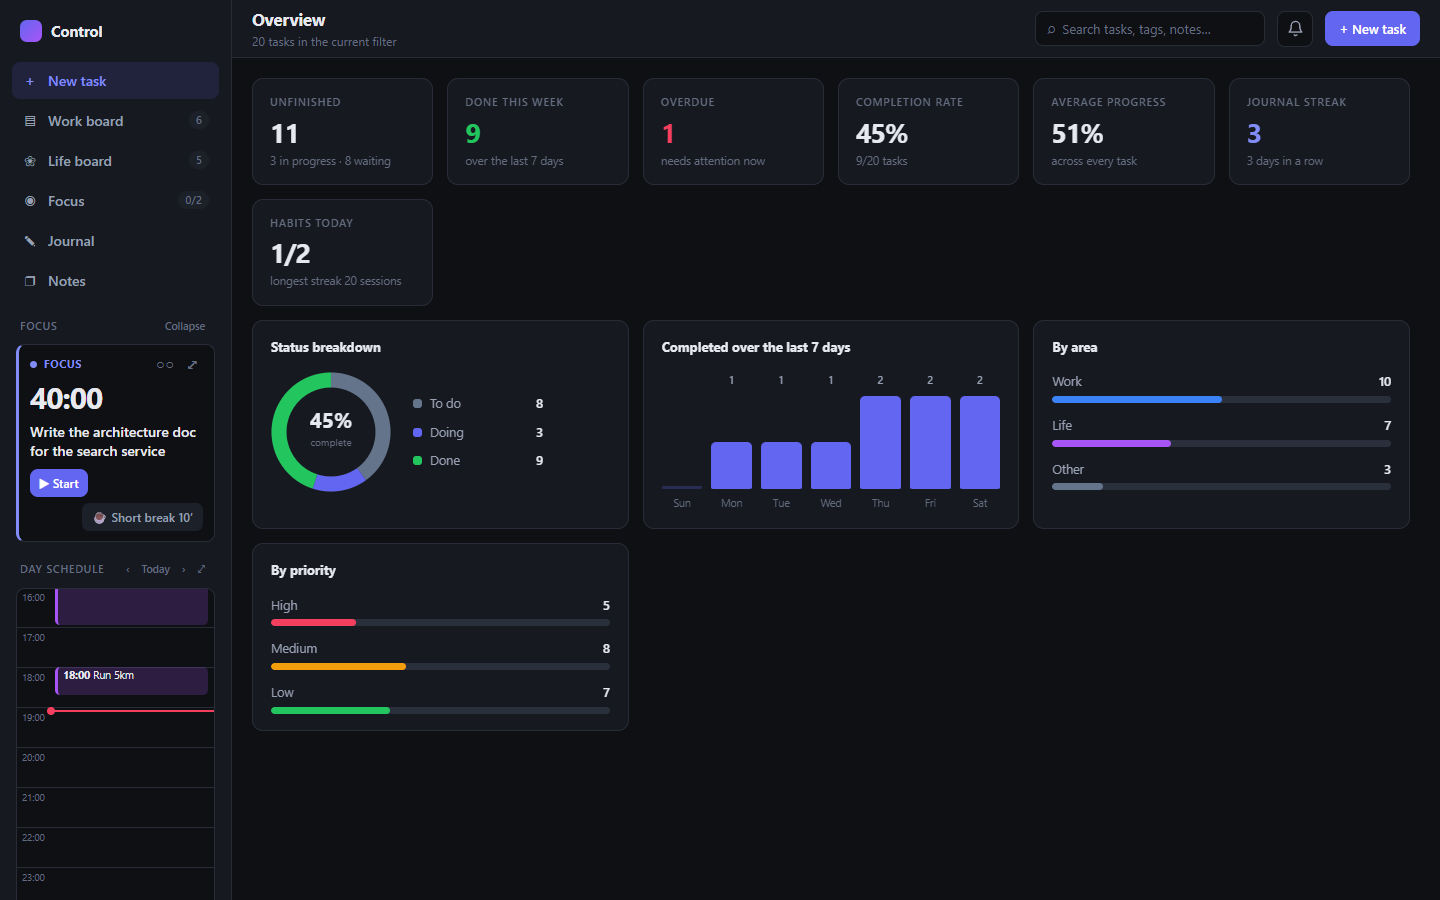
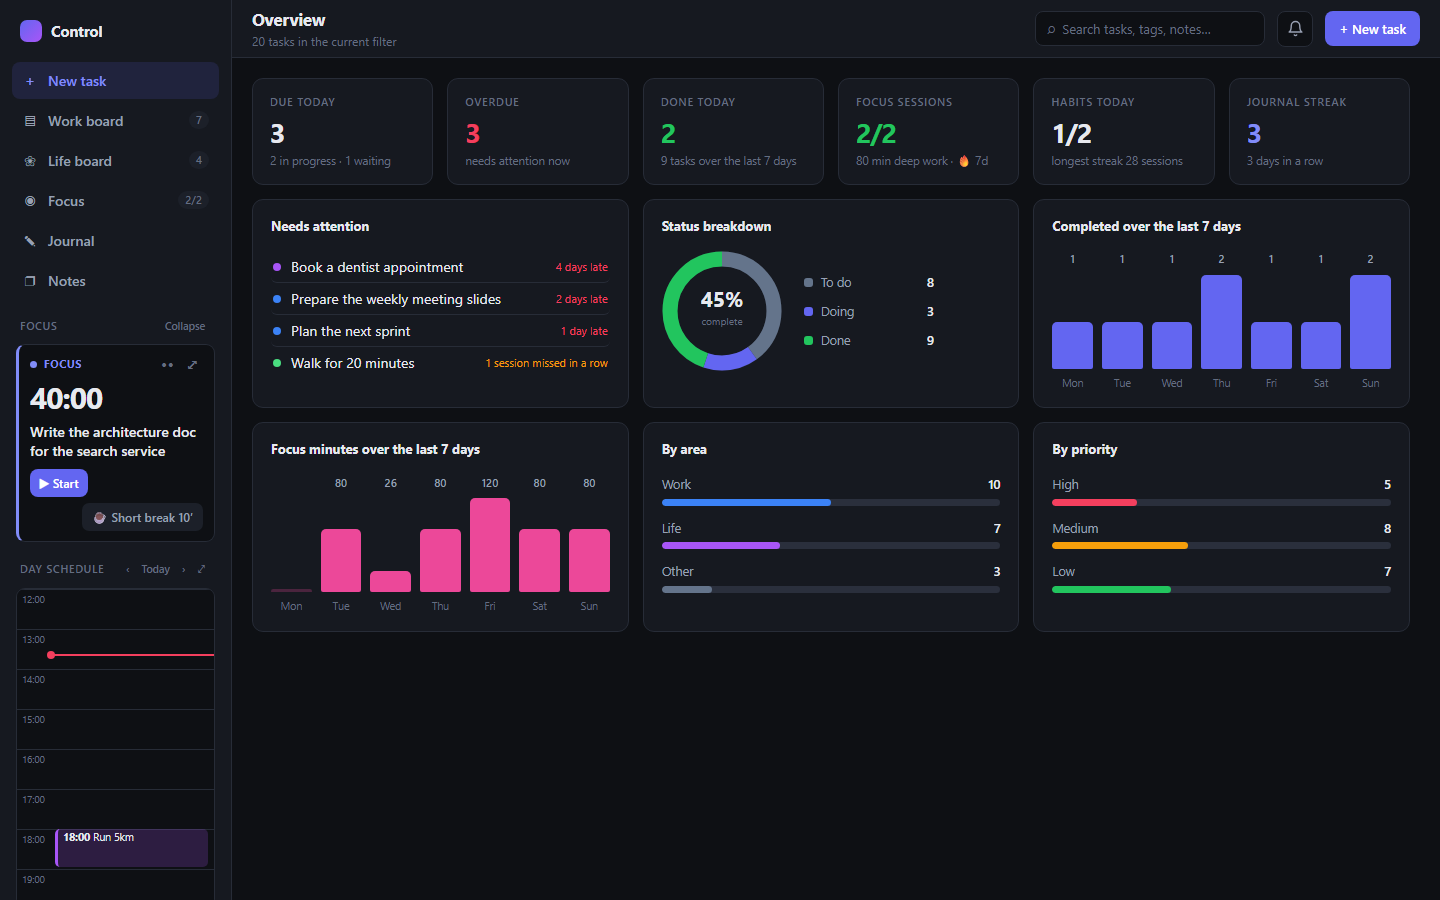
Sắp xếp lại trang tổng quan quanh chỉ số của hôm nay
- Hàng trên còn sáu ô, toàn chỉ số trong ngày: đến hạn hôm nay, trễ hạn,
  xong hôm nay, phiên tập trung, thói quen, chuỗi nhật ký
- Thêm mục "Cần chú ý": việc trễ hạn và thói quen đang ở buổi quyết định
- Thêm biểu đồ phút tập trung 7 ngày qua
- Bấm vào ô chỉ số để sang thẳng trang tương ứng
- Bỏ ô chưa xong, tỷ lệ hoàn thành và tiến độ trung bình — donut trạng thái
  ngay dưới đã nói đủ
- Chụp lại ảnh trang tổng quan cho README và tài liệu hướng dẫn

diff --git a/js/dash.js b/js/dash.js
@@ -1,29 +1,41 @@
 /* ============ tổng quan ============ */
+/* Chỉ số của HÔM NAY đứng trước, bức tranh chung đứng sau: mở trang lên là biết ngay
+   hôm nay còn việc gì, có gì trễ, đã làm sâu được bao nhiêu — rồi mới tới tổng thể. */
 function renderDash(){
+  const k0 = today();
   const list = visible();
   const by = k => list.filter(t => t.status === k).length;
   const done = by('done'), total = list.length;
   const rate = total ? Math.round(done / total * 100) : 0;
-  const overdue = list.filter(t => dueClass(t) === 'over').length;
+  const overdue = list.filter(t => dueClass(t) === 'over').sort((a, b) => a.due.localeCompare(b.due));
+  const dueToday = list.filter(t => t.status !== 'done' && t.due === k0);
+  const dueBy = k => dueToday.filter(t => t.status === k).length;
+  const doneToday = list.filter(t => t.done === k0).length;
 
-  const wk = []; const n = new Date();
-  for(let i = 6; i >= 0; i--){
-    const d = new Date(n); d.setDate(n.getDate() - i);
-    wk.push({k:iso(d), l:DOW[d.getDay()], v:list.filter(t => t.done === iso(d)).length});
-  }
+  const days = Array.from({length:7}, (_, i) => dShift(k0, i - 6));
+  const wk = days.map(k => ({l:DOW[dowOf(k)], v:list.filter(t => t.done === k).length}));
   const mx = Math.max(1, ...wk.map(d => d.v));
-  const week = wk.reduce((a,b) => a + b.v, 0);
-  const avgPg = total ? Math.round(list.reduce((a,t) => a + (t.pg||0), 0) / total) : 0;
+  const week = wk.reduce((a, b) => a + b.v, 0);
+
+  // tập trung: phiên đạt / mục tiêu hôm nay, chuỗi ngày đạt, số phút làm sâu từng ngày
+  const fCnt = fCount(), fToday = fCnt[k0] || 0, fStreak = fRun().cur, fGoal = S.focus.cfg.goal;
+  const fMin = {};
+  fWorks().forEach(e => { const k = iso(new Date(e.a)); fMin[k] = (fMin[k] || 0) + (e.ms || 0); });
+  const fwk = days.map(k => ({l:DOW[dowOf(k)], v:Math.round((fMin[k] || 0) / 6e4)}));
+  const fmx = Math.max(1, ...fwk.map(d => d.v));
 
   const jDays = Object.keys(S.journal).filter(dayHas);
   let streak = 0;
-  for(let i = 0; ; i++){ const d = new Date(n); d.setDate(n.getDate() - i);
-    if(jDays.includes(iso(d))) streak++; else if(i > 0 || !jDays.includes(iso(n))) break; }
+  for(let i = 0; ; i++){ const d = new Date(); d.setDate(d.getDate() - i);
+    if(jDays.includes(iso(d))) streak++; else if(i > 0 || !jDays.includes(k0)) break; }
 
-  const hDueL = hDue(), hOkN = hDueL.filter(h => hDone(h, today())).length;
+  const hDueL = hDue(), hOkN = hDueL.filter(h => hDone(h, k0)).length;
   const hBest = S.habits.reduce((a, h) => Math.max(a, hRecord(h)), 0);
+  // thói quen đang ở buổi quyết định: buổi trước đã lỡ, hôm nay có lịch mà chưa tick
+  const hRisk = hDueL.filter(h => !hDone(h, k0) && hMiss(h) >= 1);
 
-  const stat = (k,v,d,c) => `<div class="stat"><div class="k">${k}</div><div class="v"${c?` style="color:${c}"`:''}>${v}</div><div class="d">${d}</div></div>`;
+  const stat = (k, v, d, c, go) => `<div class="stat${go ? ' go' : ''}"${go ? ` data-dv="${go}"` : ''}>
+    <div class="k">${k}</div><div class="v"${c ? ` style="color:${c}"` : ''}>${v}</div><div class="d">${d}</div></div>`;
 
   const seg = [['todo',by('todo')],['doing',by('doing')],['done',done]];
   let acc = 0, C = 2 * Math.PI * 52;
@@ -39,21 +51,44 @@ function renderDash(){
     rows.map(([n,v,c]) => `<div class="bar"><div class="bt">${n}<b>${v}</b></div>
       <div class="bk"><i style="width:${total?Math.round(v/total*100):0}%;background:${c}"></i></div></div>`).join('')
   }</div></div>`;
+  // cột 7 ngày: dùng chung cho việc hoàn thành và phút tập trung, chỉ khác màu cột
+  const wkPane = (title, rows, top, col) => `<div class="pane"><h3>${title}</h3>
+    <div class="wk">${rows.map(d => `<div class="wkd">
+      <div class="wkv">${d.v || ''}</div>
+      <div class="wktrack"><div class="wkb" style="height:${Math.max(3, Math.round(d.v / top * 100))}%;opacity:${d.v ? 1 : .25}${col ? `;background:${col}` : ''}"></div></div>
+      <div class="wkl">${d.l}</div></div>`).join('')}</div></div>`;
+
+  const dot = c => `<span class="sw" style="width:8px;height:8px;border-radius:50%;flex:0 0 8px;background:${c}"></span>`;
+  const attn = [
+    ...overdue.slice(0, 5).map(t => `<div class="tgrow bkrow" data-dgo="${t.id}">${dot(AREAS[t.area].c)}
+      <span style="word-break:break-word">${t.title.trim() ? esc(t.title) : `<span class="ph">${tr('task.untitled')}</span>`}</span>
+      <span class="meta" style="margin-left:auto;white-space:nowrap;color:var(--high)">${dueLabel(t)}</span></div>`),
+    ...hRisk.map(h => `<div class="tgrow bkrow" data-hgo>${dot(h.color)}
+      <span style="word-break:break-word">${esc(h.name)}</span>
+      <span class="meta" style="margin-left:auto;white-space:nowrap;color:var(--warn)">${tr('hb.missN', {n: hMiss(h)})}</span></div>`),
+  ].join('');
 
   $('#vSub').textContent = tr('dash.sub', {n: total});
   $('#view').innerHTML = `
     <div class="grid stats">
-      ${stat(tr('dash.open'), total - done, tr('dash.openD', {a: by('doing'), b: by('todo')}))}
-      ${stat(tr('dash.weekDone'), week, tr('dash.weekDoneD'), '#22c55e')}
-      ${stat(tr('dash.overdue'), overdue, tr(overdue ? 'dash.overdueD' : 'dash.overdueOk'), overdue ? '#f43f5e' : null)}
-      ${stat(tr('dash.rate'), rate + '%', tr('dash.rateD', {a: done, b: total}))}
-      ${stat(tr('dash.avg'), avgPg + '%', tr('dash.avgD'))}
-      ${stat(tr('dash.jStreak'), streak, streak ? tr('dash.jStreakD', {n: streak}) : tr('dash.jStreakNo'), streak ? '#818cf8' : null)}
+      ${stat(tr('dash.dueToday'), dueToday.length,
+        dueToday.length ? tr('dash.openD', {a: dueBy('doing'), b: dueBy('todo')}) : tr('dash.dueTodayNo'), null, 'board')}
+      ${stat(tr('dash.overdue'), overdue.length, tr(overdue.length ? 'dash.overdueD' : 'dash.overdueOk'),
+        overdue.length ? '#f43f5e' : null, 'board')}
+      ${stat(tr('dash.doneToday'), doneToday, tr('dash.doneTodayD', {n: week}), doneToday ? '#22c55e' : null, 'board')}
+      ${stat(tr('dash.focus'), `${fToday}/${fGoal}`,
+        fStreak ? tr('dash.focusD', {m: fwk[6].v, n: fStreak}) : tr('dash.focusNo', {m: fwk[6].v}),
+        fToday >= fGoal ? '#22c55e' : null, 'focus')}
       ${S.habits.length ? stat(tr('dash.habits'), `${hOkN}/${hDueL.length}`,
         hBest ? tr('dash.habitsD', {n: hBest}) : tr('dash.habitsNo'),
-        hDueL.length && hOkN === hDueL.length ? '#22c55e' : null) : ''}
+        hDueL.length && hOkN === hDueL.length ? '#22c55e' : null, 'habits') : ''}
+      ${stat(tr('dash.jStreak'), streak, streak ? tr('dash.jStreakD', {n: streak}) : tr('dash.jStreakNo'),
+        streak ? '#818cf8' : null, 'journal')}
     </div>
     <div class="grid panes">
+      ${attn ? `<div class="pane"><h3>${tr('dash.attn')}</h3><div>${attn}</div>
+        ${overdue.length > 5 ? `<div class="meta" style="padding:8px 2px 0">${tr('dash.attnMore', {n: overdue.length - 5})}</div>` : ''}</div>` : ''}
+
       <div class="pane"><h3>${tr('dash.byStatus')}</h3><div class="donut">
         <svg width="120" height="120" viewBox="0 0 120 120">
           <circle cx="60" cy="60" r="52" fill="none" stroke="#2a2f3c" stroke-width="15"/>
@@ -65,14 +100,12 @@ function renderDash(){
           `<div class="lgi"><span class="sw" style="background:${COLS[k].c}"></span>${COLS[k].n}<b>${v}</b></div>`).join('')}</div>
       </div></div>
 
-      <div class="pane"><h3>${tr('dash.week')}</h3>
-        <div class="wk">${wk.map(d => `<div class="wkd">
-          <div class="wkv">${d.v || ''}</div>
-          <div class="wktrack"><div class="wkb" style="height:${Math.max(3, Math.round(d.v/mx*100))}%;opacity:${d.v?1:.25}"></div></div>
-          <div class="wkl">${d.l}</div></div>`).join('')}</div>
-      </div>
-
+      ${wkPane(tr('dash.week'), wk, mx)}
+      ${wkPane(tr('dash.fweek'), fwk, fmx, '#ec4899')}
       ${barPane(tr('dash.byArea'), Object.entries(AREAS).map(([k,a]) => [a.n, list.filter(t => t.area === k).length, a.c]))}
       ${barPane(tr('dash.byPrio'), Object.entries(PRIOS).reverse().map(([k,p]) => [p.n, list.filter(t => t.prio === k).length, p.c]))}
     </div>`;
+
+  $$('#view [data-dv]').forEach(el => el.onclick = () => goView(el.dataset.dv));
+  $$('#view [data-dgo]').forEach(el => el.onclick = () => openTask(el.dataset.dgo));
 }

diff --git a/js/i18n.js b/js/i18n.js
@@ -169,26 +169,29 @@ const STR = {
 
   /* --- tong quan --- */
   'dash.sub':        ['{n} task trong phạm vi đang lọc', '{n} {n#task#tasks} in the current filter'],
-  'dash.open':       ['Chưa xong', 'Unfinished'],
+  'dash.dueToday':   ['Đến hạn hôm nay', 'Due today'],
+  'dash.dueTodayNo': ['hôm nay không có việc đến hạn', 'nothing is due today'],
+  'dash.doneToday':  ['Xong hôm nay', 'Done today'],
+  'dash.doneTodayD': ['{n} việc trong 7 ngày qua', '{n} {n#task#tasks} over the last 7 days'],
+  'dash.focus':      ['Phiên tập trung', 'Focus sessions'],
+  'dash.focusD':     ['{m} phút làm sâu · 🔥 {n} ngày', '{m} min deep work · 🔥 {n}d'],
+  'dash.focusNo':    ['{m} phút làm sâu hôm nay', '{m} min deep work today'],
   'dash.openD':      ['{a} đang làm · {b} chờ', '{a} in progress · {b} waiting'],
-  'dash.weekDone':   ['Xong tuần này', 'Done this week'],
-  'dash.weekDoneD':  ['trong 7 ngày gần nhất', 'over the last 7 days'],
   'dash.overdue':    ['Trễ hạn', 'Overdue'],
   'dash.overdueD':   ['cần xử lý ngay', 'needs attention now'],
   'dash.overdueOk':  ['không có việc nào trễ', 'nothing is overdue'],
-  'dash.rate':       ['Tỷ lệ hoàn thành', 'Completion rate'],
-  'dash.rateD':      ['{a}/{b} task', '{a}/{b} {b#task#tasks}'],
-  'dash.avg':        ['Tiến độ trung bình', 'Average progress'],
-  'dash.avgD':       ['trên toàn bộ task', 'across every task'],
   'dash.jStreak':    ['Chuỗi viết nhật ký', 'Journal streak'],
   'dash.jStreakD':   ['{n} ngày liên tiếp', '{n} {n#day#days} in a row'],
   'dash.jStreakNo':  ['hôm nay chưa viết', 'nothing written today'],
   'dash.habits':     ['Thói quen hôm nay', 'Habits today'],
   'dash.habitsD':    ['chuỗi dài nhất {n} buổi', 'longest streak {n} {n#session#sessions}'],
   'dash.habitsNo':   ['chưa có chuỗi nào', 'no streak yet'],
+  'dash.attn':       ['Cần chú ý', 'Needs attention'],
+  'dash.attnMore':   ['và {n} việc trễ hạn nữa', 'and {n} more overdue {n#task#tasks}'],
   'dash.byStatus':   ['Phân bố trạng thái', 'Status breakdown'],
   'dash.donutSub':   ['hoàn thành', 'complete'],
   'dash.week':       ['Việc hoàn thành 7 ngày qua', 'Completed over the last 7 days'],
+  'dash.fweek':      ['Phút tập trung 7 ngày qua', 'Focus minutes over the last 7 days'],
   'dash.byArea':     ['Theo mảng', 'By area'],
   'dash.byPrio':     ['Theo ưu tiên', 'By priority'],
 
@@ -559,7 +562,7 @@ const STR = {
   'hb.swapTip':    ['Thay bằng: {s}', 'Instead: {s}'],
   'hb.miss1':      ['Đã lỡ 1 buổi — buổi tới là buổi quyết định',
                     'One session missed — the next one decides it'],
-  'hb.missN':      ['Đã lỡ {n} buổi liên tiếp', '{n} sessions missed in a row'],
+  'hb.missN':      ['Đã lỡ {n} buổi liên tiếp', '{n} {n#session#sessions} missed in a row'],
   'hb.stripT':     ['Mở mục Thói quen', 'Open the Habits page'],
   'hb.stripHd':    ['Thói quen hôm nay', 'Habits today'],
   'hb.allDone':    ['Xong cả rồi', 'All done'],

diff --git a/style.css b/style.css
@@ -389,6 +389,8 @@ button.ncar:hover{background:var(--line);color:var(--tx)}
 .grid{display:grid;gap:14px}
 .stats{grid-template-columns:repeat(auto-fit,minmax(165px,1fr));margin-bottom:14px}
 .stat{background:var(--panel);border:1px solid var(--line);border-radius:11px;padding:15px 17px}
+.stat.go{cursor:pointer;transition:border-color .15s,background-color .15s}
+.stat.go:hover{border-color:var(--acc);background:var(--panel2)}
 .stat .k{font-size:11px;color:var(--tx3);text-transform:uppercase;letter-spacing:.7px;font-weight:600;margin-bottom:8px}
 .stat .v{font-size:27px;font-weight:700;letter-spacing:-1px;line-height:1}
 .stat .d{font-size:11.5px;color:var(--tx3);margin-top:6px}

diff --git a/README.vi.md b/README.vi.md
@@ -34,7 +34,7 @@
 | ![Panel task](docs/images/vi/drawer.png) | ![Tập trung](docs/images/vi/focus.png) |
 | **Thói quen**<br>Lưới theo dõi 12 tuần, chuỗi buổi liên tiếp, thói quen nên làm và nên bỏ. | **Lịch**<br>Xem theo ngày, tuần, tháng kiểu Google Calendar. Bấm khung trống để tạo task. |
 | ![Thói quen](docs/images/vi/habits.png) | ![Lịch](docs/images/vi/cal.png) |
-| **Ghi chú**<br>Trang lồng nhau như Notion, kéo thả để đổi thứ tự hoặc lồng vào trang khác, ghim, gắn tag, chèn ảnh và file đính kèm. | **Tổng quan**<br>Tỉ lệ hoàn thành, việc trễ hạn, biểu đồ 7 ngày, phân bố theo mảng và ưu tiên. |
+| **Ghi chú**<br>Trang lồng nhau như Notion, kéo thả để đổi thứ tự hoặc lồng vào trang khác, ghim, gắn tag, chèn ảnh và file đính kèm. | **Tổng quan**<br>Việc đến hạn hôm nay, việc trễ hạn, phiên tập trung so với mục tiêu ngày, thói quen và chuỗi nhật ký, kèm biểu đồ 7 ngày. |
 | ![Ghi chú](docs/images/vi/notes.png) | ![Tổng quan](docs/images/vi/dash.png) |
 | **Lịch trình**<br>Khung của một ngày — ngủ, di chuyển, làm việc, ăn, nghỉ — dựng sẵn thành mẫu cho từng thứ trong tuần. | **Nhật ký**<br>Mỗi ngày một hoặc nhiều trang, viết bằng cùng trình soạn thảo với ghi chú. |
 | ![Lịch trình](docs/images/vi/plan.png) | ![Nhật ký](docs/images/vi/journal.png) |
@@ -155,7 +155,7 @@ Nhóm này nằm dưới nhãn **Ít dùng** ở sidebar.
 | **Lịch trình** | Muốn dựng khung của một ngày — ngủ, di chuyển, làm việc, ăn, nghỉ. Sửa các khối cho khớp ngày thật của bạn rồi bấm **⤓ Lưu vào mẫu**, từ đó mỗi thứ trong tuần có mẫu riêng. |
 | **Thói quen** | Thêm, sửa thói quen, hoặc xem lưới 12 tuần. |
 | **Để sau** | Chỗ đổ những việc chưa cam kết làm. Gõ vào ô trên cùng rồi Enter để ghi nhanh. Task ở đây không lên bảng, lịch, nhắc việc và không tính vào tổng quan. |
-| **Tổng quan** | Cuối tuần nhìn lại: tỉ lệ hoàn thành, việc trễ hạn, biểu đồ 7 ngày, phân bố theo mảng và ưu tiên. |
+| **Tổng quan** | Mở đầu ngày để biết hôm nay còn gì, cuối tuần nhìn lại: việc đến hạn hôm nay, việc trễ hạn, phiên tập trung, thói quen, chuỗi nhật ký, việc trễ hạn cần xử lý, biểu đồ 7 ngày và phân bố trạng thái, mảng, ưu tiên. |
 | **Thùng rác** | Lỡ tay bỏ task hay trang ghi chú thì vào đây khôi phục. |
 
 ### Mấy thứ nhỏ nằm rải rác

diff --git a/docs/HUONG-DAN.md b/docs/HUONG-DAN.md
@@ -66,7 +66,7 @@ Khối của một ngày được copy từ **mẫu** lúc mở ngày đó lần
 
 **Ghi chú** — trang không gắn với ngày, lồng nhau như Notion. Cột trái là cây trang: bấm ▸ để mở trang con, rê chuột vào một trang rồi bấm **+** để thêm trang con. Mỗi trang có tiêu đề, tag (dùng chung với task), nội dung soạn bằng cùng trình soạn thảo, **ngày tạo** và **sửa lần cuối** (cập nhật khi đổi tiêu đề, nội dung hoặc tag). Ghim trang để nó hiện ở mục **Đã ghim** trên đầu cây; năm trang sửa gần nhất hiện ở mục **Gần đây** ngay dưới đó. **Chuyển vào…** để đưa trang (kèm trang con) vào trang khác hoặc về cấp gốc. Kéo thả làm được đúng việc đó bằng tay: thả một trang vào mép trên hay mép dưới của trang khác để chèn trước hoặc sau nó, thả vào giữa một trang để biến nó thành trang con. Gõ vào ô tìm kiếm hoặc bấm một tag ở sidebar thì cây thành danh sách trang khớp, mới sửa lên đầu. Bỏ một trang thì cả các trang con cùng vào **Thùng rác**, khôi phục cũng khôi phục cả cây.
 
-**Tổng quan** — tỉ lệ hoàn thành, số task trễ hạn, biểu đồ 7 ngày gần nhất, tiến độ trung bình, streak ngày viết nhật ký, và số thói quen đã tick hôm nay.
+**Tổng quan** — hàng trên toàn là chỉ số của hôm nay: việc đến hạn hôm nay, việc trễ hạn, việc xong hôm nay, phiên tập trung so với mục tiêu ngày, thói quen đã tick, chuỗi ngày viết nhật ký. Bấm vào ô là sang thẳng mục tương ứng. Dưới đó, **Cần chú ý** liệt kê việc trễ hạn và thói quen đang ở buổi quyết định (bấm vào dòng để mở); còn lại là phân bố trạng thái, biểu đồ 7 ngày của việc hoàn thành và của phút làm sâu, phân bố theo mảng và theo ưu tiên.
 
 **Lọc và tìm** — theo tag (sidebar) và tìm toàn văn trên tiêu đề / tag / ghi chú. Riêng Bảng việc và Bảng cuộc sống có thêm nút **Lọc** trên thanh công cụ (hiện số bộ lọc đang bật), bấm vào mở bảng chọn: khoảng thời gian (hôm nay / 7 ngày / tháng này / tất cả), ưu tiên (chọn được nhiều mức), hạn (trễ hạn / hạn hôm nay / chưa có hạn), mảng Công việc / Khác (chỉ ở Bảng việc), và cách sắp xếp thẻ (thủ công / theo ưu tiên / chia nhóm ưu tiên).
 

diff --git a/README.md b/README.md
@@ -34,7 +34,7 @@
 | ![Task panel](docs/images/en/drawer.png) | ![Focus](docs/images/en/focus.png) |
 | **Habits**<br>A twelve-week tracking grid, session streaks, and habits to keep as well as habits to drop. | **Calendar**<br>Day, week and month views in the style of Google Calendar. Click an empty slot to create a task there. |
 | ![Habits](docs/images/en/habits.png) | ![Calendar](docs/images/en/cal.png) |
-| **Notes**<br>Pages nested inside pages like Notion. Drag to reorder or to nest, pin, tag, paste images and attach files. | **Overview**<br>Completion rate, overdue work, a seven-day chart, and the split by area and priority. |
+| **Notes**<br>Pages nested inside pages like Notion. Drag to reorder or to nest, pin, tag, paste images and attach files. | **Overview**<br>What is due today, what is overdue, focus sessions against the daily goal, habits and the journal streak, plus seven-day charts. |
 | ![Notes](docs/images/en/notes.png) | ![Overview](docs/images/en/dash.png) |
 | **Day plan**<br>The shape of a day — sleep, commute, work, meals, rest — built from a template per weekday. | **Journal**<br>One or more pages per day, written in the same editor as the notes. |
 | ![Day plan](docs/images/en/plan.png) | ![Journal](docs/images/en/journal.png) |
@@ -154,7 +154,7 @@ These sit under the **Less used** label in the sidebar.
 | **Day plan** | When you want to lay out the shape of a day — sleep, commute, work, meals, rest. Adjust the blocks to match your real day, then click **⤓ Save to template**; from there each weekday can have its own template. |
 | **Habits** | Adding and editing habits, or reading the twelve-week grid. |
 | **Later** | Where the uncommitted things go. Type in the box at the top and press Enter to jot one down. Tasks here stay off the board, the calendar and the reminders, and don't count towards the overview. |
-| **Overview** | For looking back at the end of a week: completion rate, overdue work, the seven-day chart, and the split by area and priority. |
+| **Overview** | For starting the day and for looking back at the end of a week: what is due today, what is overdue, focus sessions, habits, the journal streak, the overdue work waiting for you, the seven-day charts, and the split by status, area and priority. |
 | **Trash** | Where a task or note page goes when you delete one, and where you get it back. |
 
 ### The small things scattered around

diff --git a/docs/GUIDE.md b/docs/GUIDE.md
@@ -66,7 +66,7 @@ A day's blocks are copied from a **template** the first time you open that day, 
 
 **Notes** — pages not attached to any date, nested like Notion. The left column is the page tree: click ▸ to open sub-pages, hover a page and click **+** to add a child. Each page has a title, tags (shared with tasks), content in the same editor, a **created** date and a **last edited** date (updated when the title, the content or the tags change). Pin a page and it appears under **Pinned** at the top of the tree; the five most recently edited appear under **Recent** below that. **Move into…** moves a page, with its children, into another page or back to the top level. Dragging does the same thing by hand: drop a page on the top or bottom edge of another to place it before or after, or on the middle of a page to make it a child. Typing in the search box or clicking a tag in the sidebar turns the tree into a flat list of matching pages, most recently edited first. Deleting a page sends its whole subtree to the **Trash**, and restoring brings the subtree back.
 
-**Overview** — completion rate, the number of overdue tasks, a chart of the last 7 days, average progress, the streak of days with a journal entry, and how many habits have been ticked today.
+**Overview** — the top row is all about today: tasks due today, overdue tasks, tasks finished today, focus sessions against the daily goal, habits ticked, and the streak of days with a journal entry. Clicking a tile jumps to the page behind it. Below, **Needs attention** lists overdue tasks and habits sitting at a deciding session (click a row to open it); the rest is the status breakdown, seven-day charts for finished tasks and for deep-work minutes, and the split by area and by priority.
 
 **Filtering and search** — by tag (sidebar) and full-text across titles, tags and notes. The Work board and the Life board additionally have a **Filter** button in the toolbar (showing how many filters are on), which opens a panel: time range (today / 7 days / this month / all), priority (several at once), due state (overdue / due today / no due date), area Work / Other (work board only), and card ordering (manual / by priority / grouped by priority).
 
